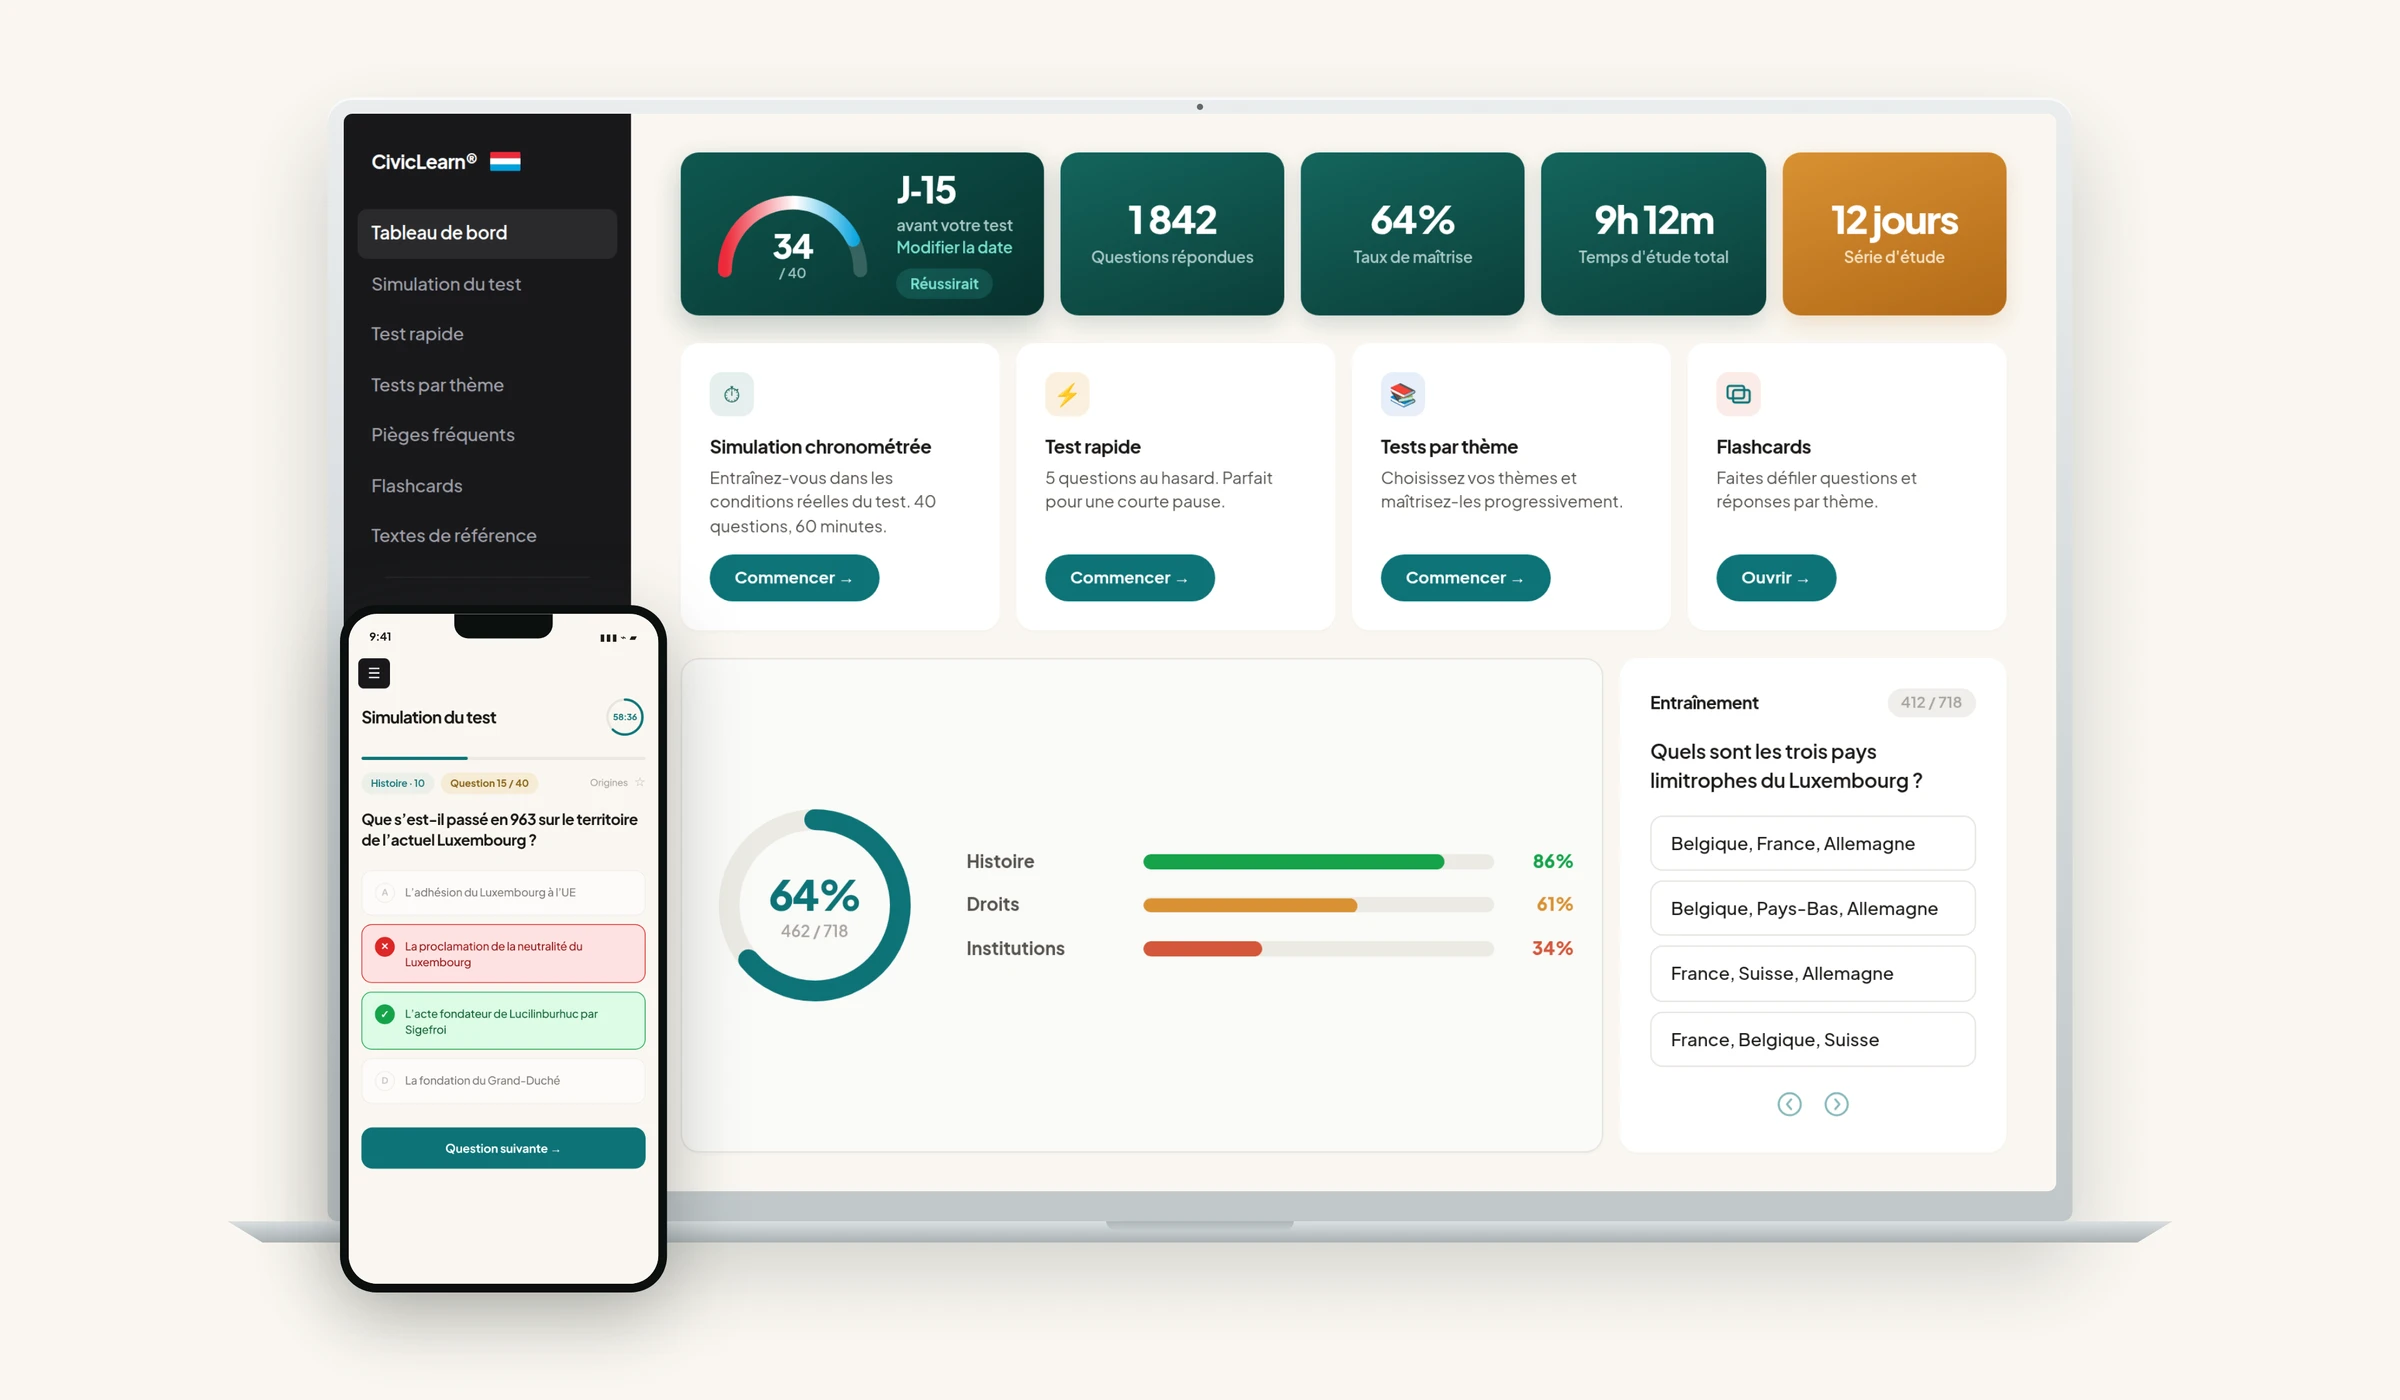
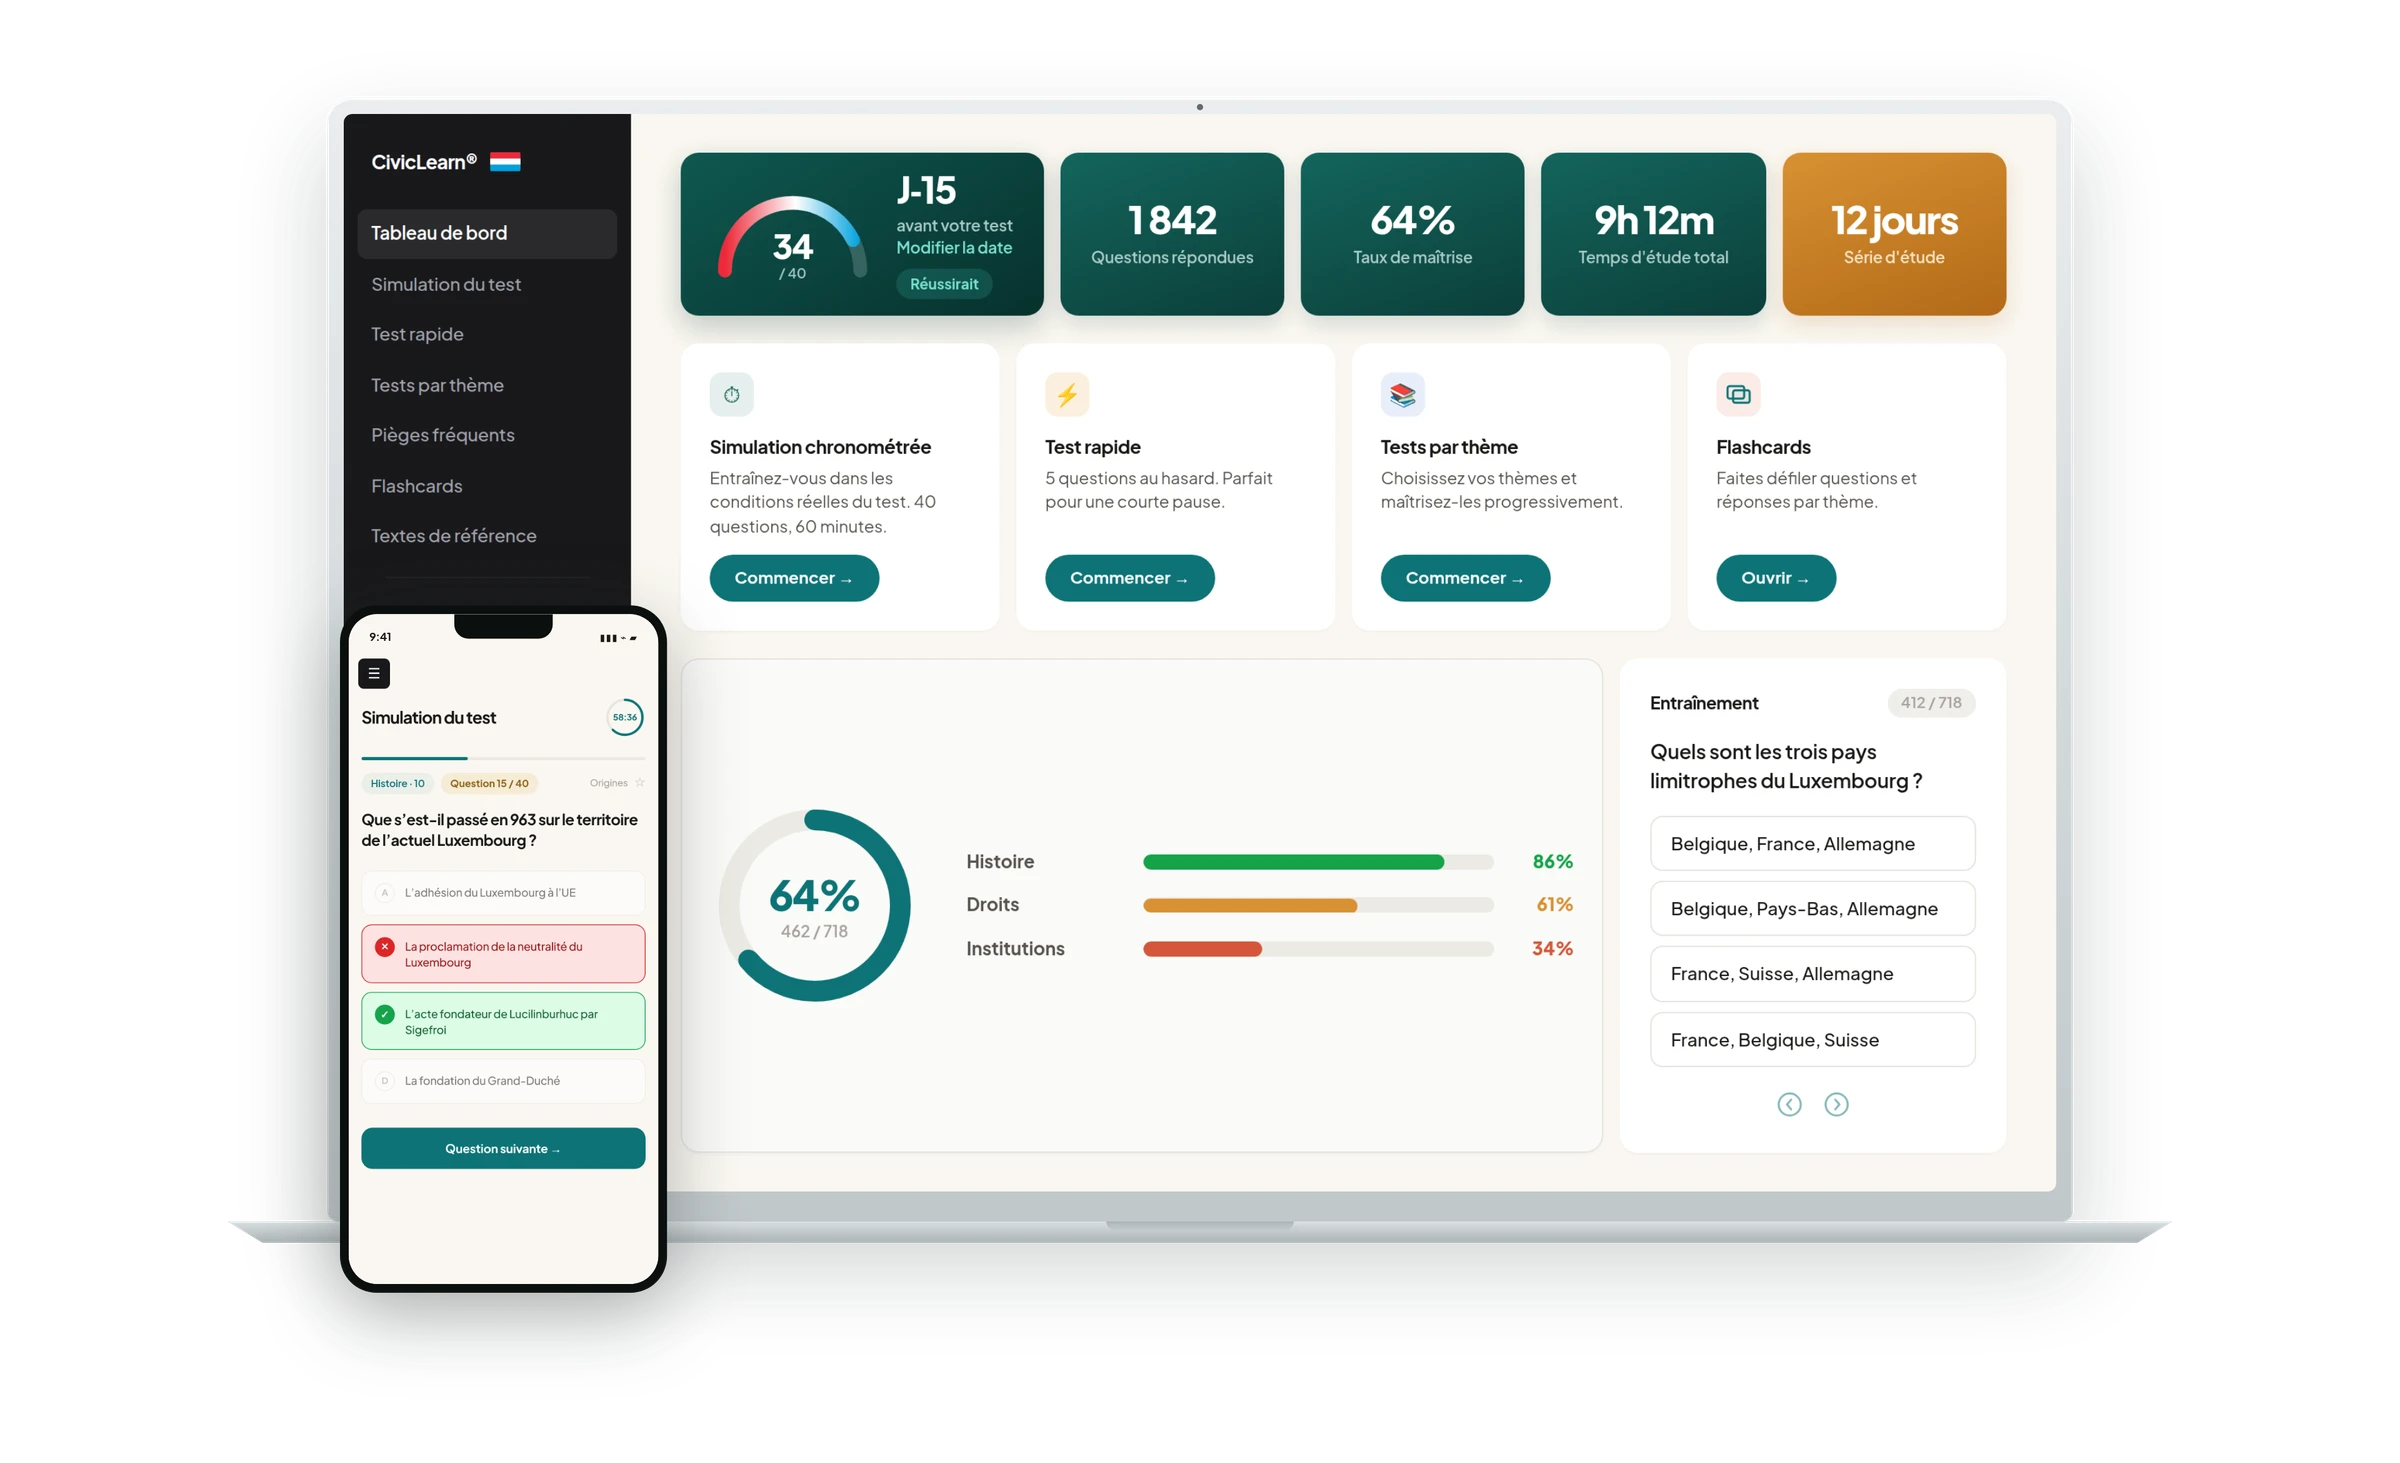
trans

diff --git a/index.html b/index.html
@@ -189,7 +189,7 @@ Préparez-vous au test de nationalité luxembourgeoise à votre rythme.
 
     <div class="hero-image-wide">
       <img src="/assets/images/devices-lu-v2.webp" alt="Le tableau de bord CivicLearn et le test Vivre-ensemble sur ordinateur et sur mobile"
-           width="2400" height="1400" fetchpriority="high" decoding="async">
+           width="2400" height="1463" fetchpriority="high" decoding="async">
 <div class="lang-badge-floating">
   
   <div class="lang-badge-line">Now also in English</div>
